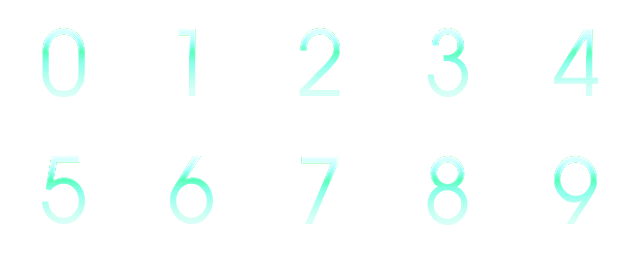
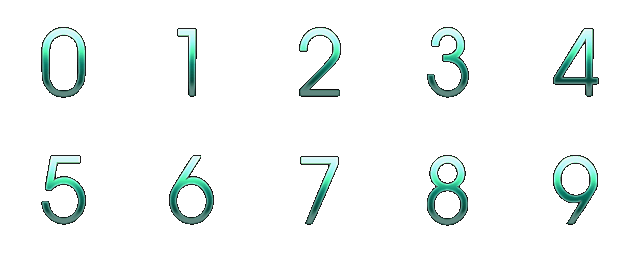
fix alpha channel on combo counter

diff --git a/base/src/org/open2jam/render/lwjgl/LWJGLGameWindow.java b/base/src/org/open2jam/render/lwjgl/LWJGLGameWindow.java
@@ -7,6 +7,7 @@ import java.util.logging.Logger;
 
 import org.lwjgl.LWJGLException;
 import org.lwjgl.input.Keyboard;
+import org.lwjgl.input.Mouse;
 import org.lwjgl.opengl.Display;
 import org.lwjgl.opengl.DisplayMode;
 import org.lwjgl.opengl.GL11;
@@ -24,7 +25,9 @@ import org.open2jam.render.GameWindowCallback;
 public class LWJGLGameWindow implements GameWindow {
 
         static final Logger logger = Logger.getLogger(Logger.GLOBAL_LOGGER_NAME);
-  
+        
+        private static final HashMap<Integer,Integer> key_map = new HashMap<Integer,Integer>();
+
 	/** The callback which should be notified of window events */
 	private GameWindowCallback callback;
   
@@ -42,8 +45,6 @@ public class LWJGLGameWindow implements GameWindow {
   
 	/** Title of window, we get it before our window is ready, so store it till needed */
 	private String title;
-
-        private static final HashMap<Integer,Integer> key_map = new HashMap<Integer,Integer>();
 
         static {
             key_map.put(KeyEvent.VK_S, Keyboard.KEY_S);
@@ -116,44 +117,47 @@ public class LWJGLGameWindow implements GameWindow {
 	 * Start the rendering process. This method will cause the display to redraw
 	 * as fast as possible.
 	 */
-	public void startRendering() {
-                if(callback == null)throw new RuntimeException(" Need callback to start rendering !");
-		try {
-			//setDisplayMode();
-			Display.create();
+	public void startRendering()
+        {
+            if(callback == null)throw new RuntimeException(" Need callback to start rendering !");
 
-                        setTitle(title);
-			
-			// grab the mouse, dont want that hideous cursor when we're playing!
-// 			Mouse.setGrabbed(true);
-  
-			// enable textures since we're going to use these for our sprites
-			GL11.glEnable(GL11.GL_TEXTURE_2D);
-			
-			// disable the OpenGL depth test since we're rendering 2D graphics
-			GL11.glDisable(GL11.GL_DEPTH_TEST);
+            try {
+                Display.create();
+            } catch (LWJGLException ex) {
+                Logger.getLogger(LWJGLGameWindow.class.getName()).log(Level.SEVERE, null, ex);
+                callback.windowClosed();
+                return;
+            }
 
-                        // enable apha blending
-                        GL11.glEnable(GL11.GL_BLEND);
-                        GL11.glBlendFunc(GL11.GL_SRC_ALPHA, GL11.GL_ONE_MINUS_SRC_ALPHA);
-			
-			GL11.glMatrixMode(GL11.GL_PROJECTION);
-			GL11.glLoadIdentity();
-			
-			GL11.glOrtho(0, width, height, 0, -1, 1);
-			
-			textureLoader = new TextureLoader();
+            setTitle(title);
 
-                        GL11.glClear(GL11.GL_COLOR_BUFFER_BIT | GL11.GL_DEPTH_BUFFER_BIT);
-                        GL11.glMatrixMode(GL11.GL_MODELVIEW);
-                        GL11.glLoadIdentity();
-			
-			callback.initialise();
-                        
-		} catch (LWJGLException le) {
-			callback.windowClosed();
-		}
-		gameLoop();
+            // grab the mouse, dont want that hideous cursor when we're playing!
+            if(Display.isFullscreen())Mouse.setGrabbed(true);
+
+            // enable textures since we're going to use these for our sprites
+            GL11.glEnable(GL11.GL_TEXTURE_2D);
+
+            // disable the OpenGL depth test since we're rendering 2D graphics
+            GL11.glDisable(GL11.GL_DEPTH_TEST);
+
+            // enable apha blending
+            GL11.glEnable(GL11.GL_BLEND);
+            GL11.glBlendFunc(GL11.GL_SRC_ALPHA, GL11.GL_ONE_MINUS_SRC_ALPHA);
+
+            GL11.glMatrixMode(GL11.GL_PROJECTION);
+            GL11.glLoadIdentity();
+
+            GL11.glOrtho(0, width, height, 0, -1, 1);
+
+            textureLoader = new TextureLoader();
+
+            GL11.glClear(GL11.GL_COLOR_BUFFER_BIT | GL11.GL_DEPTH_BUFFER_BIT);
+            GL11.glMatrixMode(GL11.GL_MODELVIEW);
+            GL11.glLoadIdentity();
+
+            callback.initialise();
+
+            gameLoop();
 	}
 
         public void update(){
@@ -168,7 +172,7 @@ public class LWJGLGameWindow implements GameWindow {
 	 * window events. 
 	 */
 	public void setGameWindowCallback(GameWindowCallback callback) {
-		this.callback = callback;
+            this.callback = callback;
 	}
 	
 	/**
@@ -177,8 +181,8 @@ public class LWJGLGameWindow implements GameWindow {
 	 * @param keyCode The code associated with the key to check 
 	 * @return True if the specified key is being held
 	 */
-	public boolean isKeyDown(int keyCode) {
-
+	public boolean isKeyDown(int keyCode)
+        {
             Integer code = key_map.get(keyCode);
             if(code == null)return false;
 
@@ -189,7 +193,8 @@ public class LWJGLGameWindow implements GameWindow {
 	 * Run the main game loop. This method keeps rendering the scene
 	 * and requesting that the callback update its screen.
 	 */
-	private void gameLoop() {
+	private void gameLoop()
+        {
             gameRunning = true;
             while (gameRunning) {
                     // clear screen
